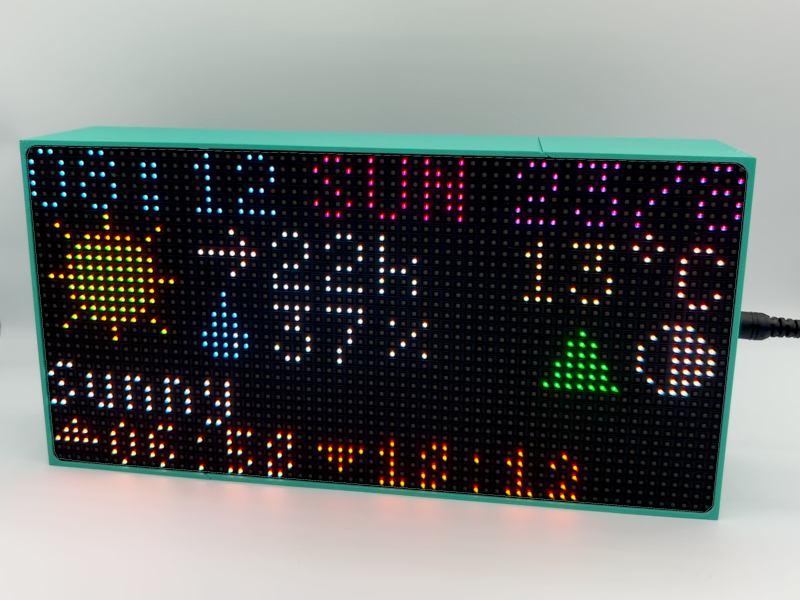
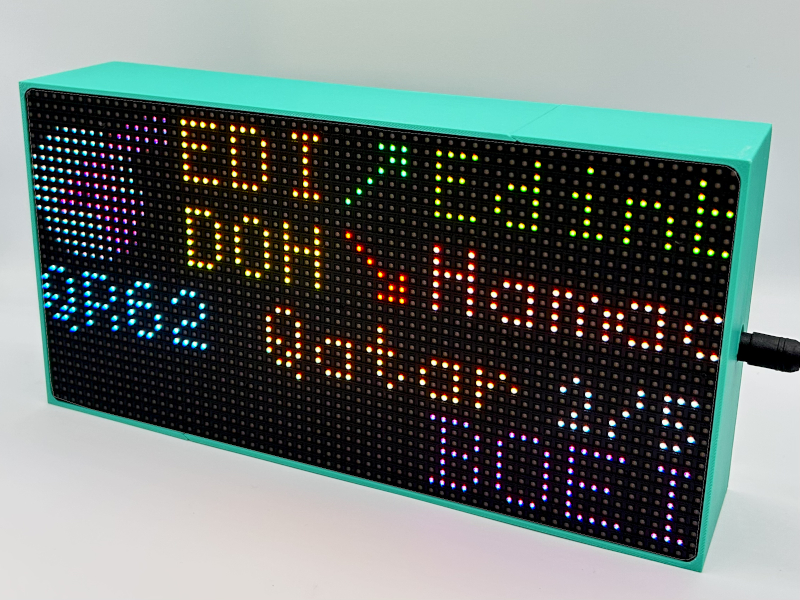
updates

diff --git a/src/index.md b/src/index.md
@@ -16,7 +16,7 @@ permalink: "/"
           </div>
       </div>
     </div>
-    <div class="row align-items-center g-4" style="max-width: 600px; margin: 0 auto;">
+    <div class="row align-items-center g-4">
       <div class="col-lg-12">
         <div class="hero-carousel" id="hero-carousel">
           <div class="hero-carousel-slides">
@@ -26,20 +26,12 @@ permalink: "/"
             <div class="hero-carousel-slide" data-type="image">
               <img src="/images/carousel/flight-tracker-02.jpg" />
             </div>
-            <div class="hero-carousel-slide" data-type="image">
-              <img src="/images/carousel/flight-tracker-03.jpg" />
-            </div>
-            <div class="hero-carousel-slide" data-type="image">
-              <img src="/images/carousel/flight-tracker-04.jpg" />
-            </div>
           </div>
           <button class="hero-carousel-prev" aria-label="Previous slide">&lsaquo;</button>
           <button class="hero-carousel-next" aria-label="Next slide">&rsaquo;</button>
           <div class="hero-carousel-dots">
             <button class="hero-carousel-dot active" aria-label="Go to slide 1"></button>
             <button class="hero-carousel-dot" aria-label="Go to slide 2"></button>
-            <button class="hero-carousel-dot" aria-label="Go to slide 3"></button>
-            <button class="hero-carousel-dot" aria-label="Go to slide 4"></button>
           </div>
         </div>
       </div>
@@ -81,7 +73,35 @@ permalink: "/"
         </div>
     </div>
 
-    {% include "display-modes.njk" %}
+    <div class="capture-grid row g-0 border border-2 mt-3">
+        <div class="capture-item col-12 col-md-6">
+            <div class="capture-screen">
+                <img src="{{ item.src }}" alt="{{ item.label }}" loading="lazy" />
+            </div>
+            <div class="capture-label">LABEL TEXT</div>
+        </div>
+
+        <div class="capture-item col-12 col-md-6">
+            <div class="capture-screen">
+                <img src="{{ item.src }}" alt="{{ item.label }}" loading="lazy" />
+            </div>
+            <div class="capture-label">LABEL TEXT</div>
+        </div>
+
+        <div class="capture-item col-12 col-md-6">
+            <div class="capture-screen">
+                <img src="{{ item.src }}" alt="{{ item.label }}" loading="lazy" />
+            </div>
+            <div class="capture-label">LABEL TEXT</div>
+        </div>
+
+        <div class="capture-item col-12 col-md-6">
+            <div class="capture-screen">
+                <img src="{{ item.src }}" alt="{{ item.label }}" loading="lazy" />
+            </div>
+            <div class="capture-label">LABEL TEXT</div>
+        </div>
+    </div>
   </div>
 </section>
 
